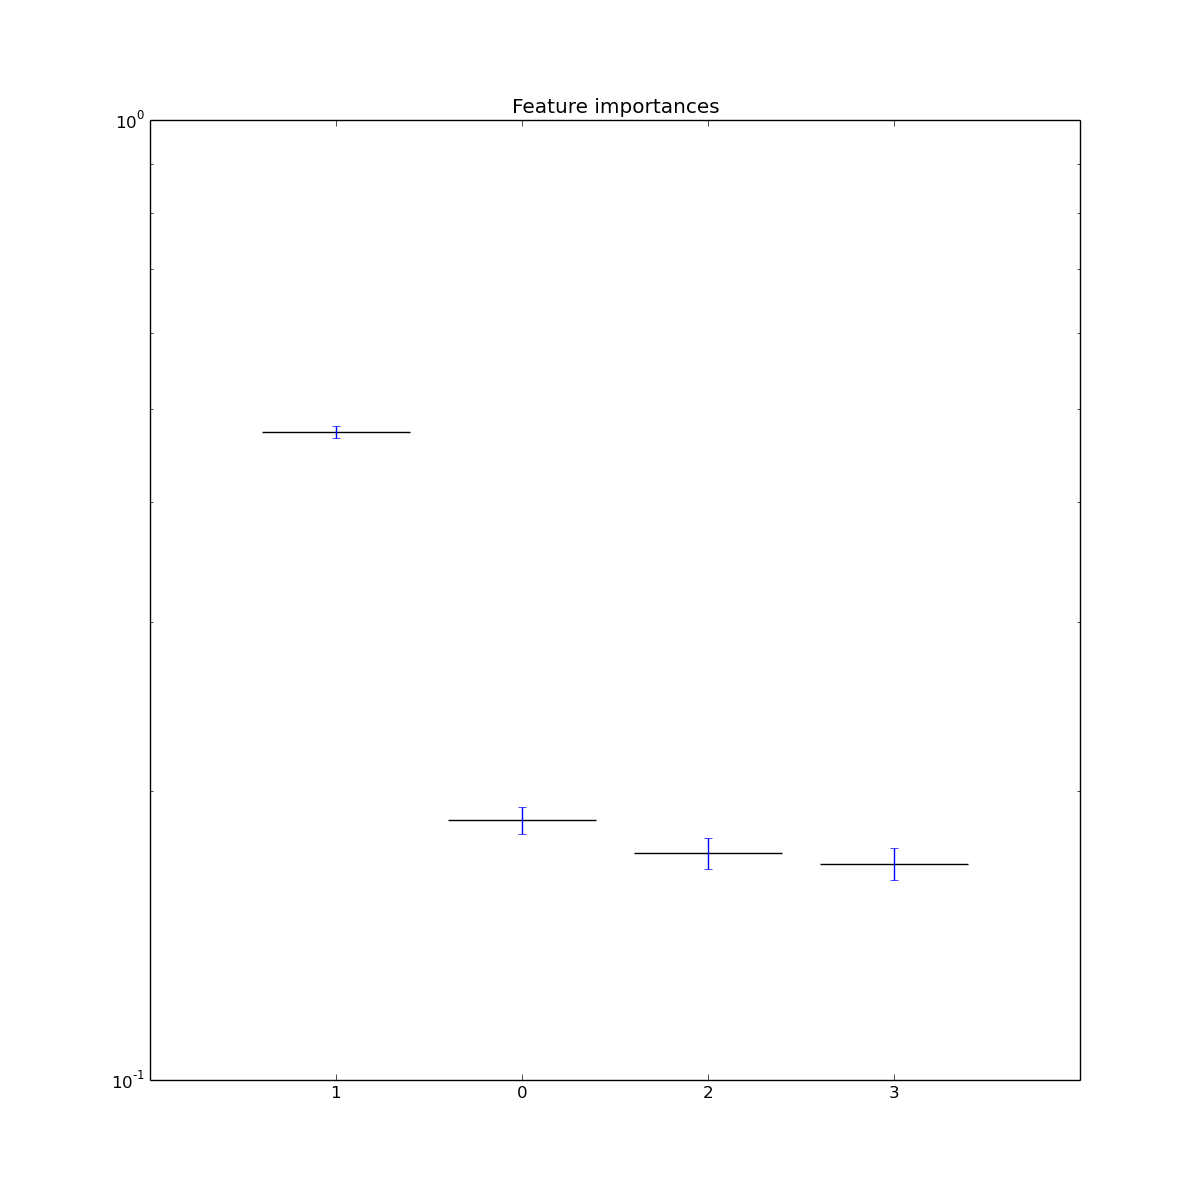
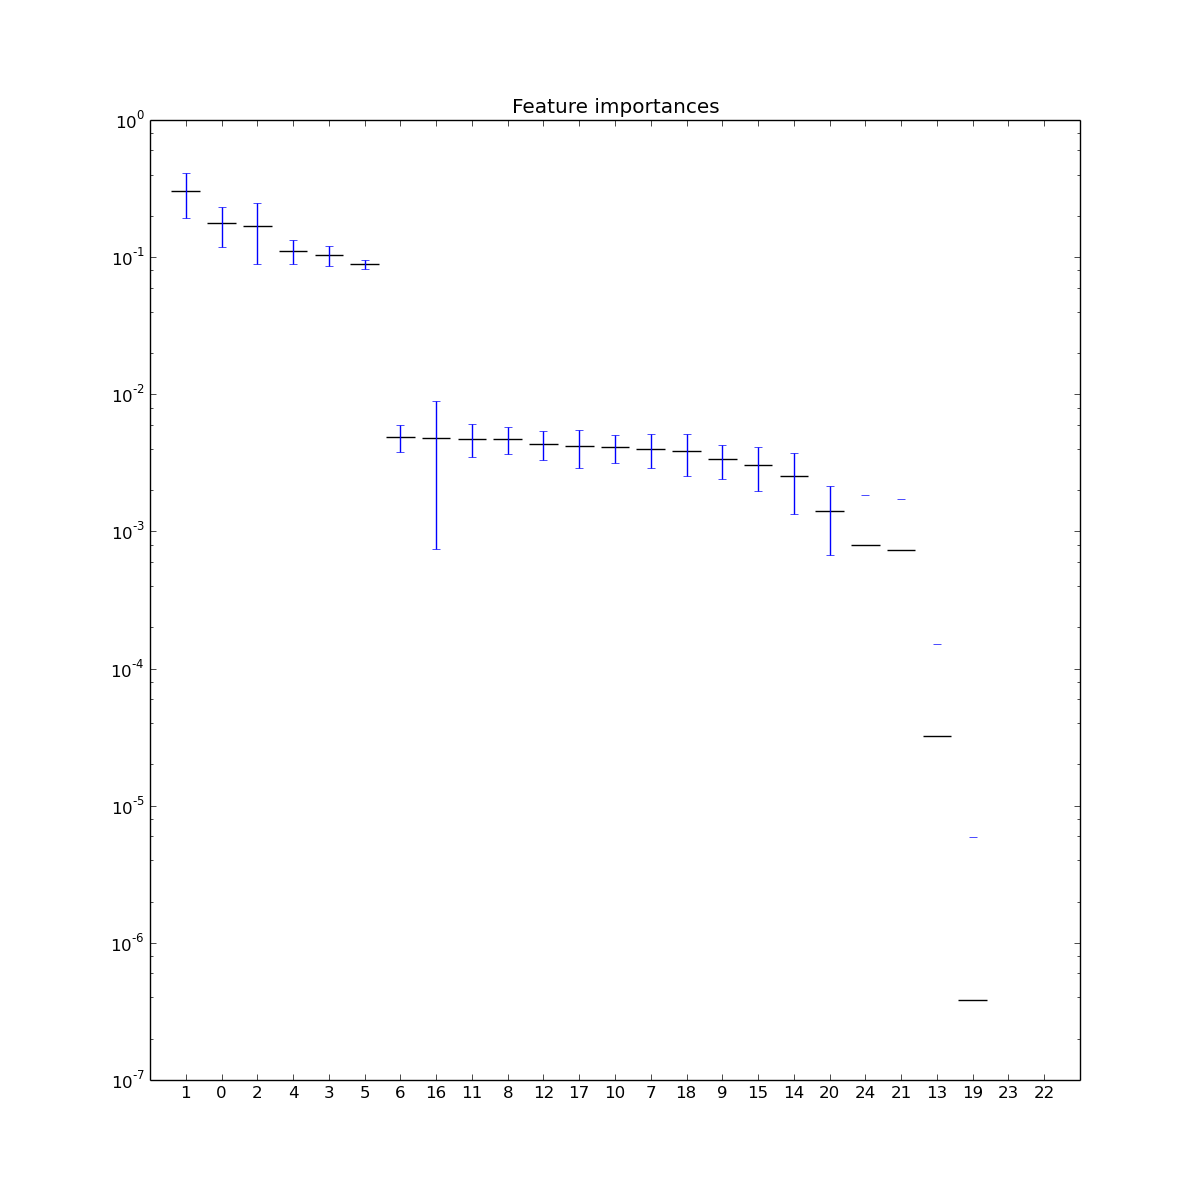
upload

diff --git a/ensemble.md b/ensemble.md
@@ -4,19 +4,61 @@
 
 | Dataset | AUC | Accuracy | Precision@5k|
 | :--- | :--- | :--- | :--- | :--- |
-| Training | 0.76732 | 0.75199 | 0.81020 |
-| Test | 0.63303 | 0.74199 | 0.67960 |
+| Training | 0.73424 | 0.74886 | 0.78800 |
+| Test | 0.64552 | 0.74239 | 0.69620 |
 
 
 #Feature ranking:
 
 ![](importances.png?raw=true)
 
-1. Chmel_Tolstiy-1001180|A-1639114-No-compiler-OK.csv (0.473165)
+1. Chmel_Tolstiy-1001180|A-1639114-No-compiler-OK.csv (0.301619)
 
-2. justHeuristic-989496|A-1639435-No-compiler-OK.csv (0.186474)
+2. justHeuristic-989496|A-1639435-No-compiler-OK.csv (0.176040)
 
-3. Yandex.Taxi | lon (0.172329)
+3. Yandex.Taxi | dist (0.167684)
 
-4. Yandex.Taxi | lat (0.168032)
+4. Yandex.Taxi | lat (0.111530)
+
+5. Yandex.Taxi | lon (0.102907)
+
+6. Yandex.Taxi | time_of_day_rel (0.088708)
+
+7. Yandex.Taxi | day_of_week=fri (0.004865)
+
+8. Yandex.Taxi | day_of_week=mon (0.004816)
+
+9. Yandex.Taxi | day_of_week=sat (0.004745)
+
+10. Yandex.Taxi | day_of_week=sun (0.004718)
+
+11. Yandex.Taxi | day_of_week=thu (0.004367)
+
+12. Yandex.Taxi | day_of_week=tue (0.004177)
+
+13. Yandex.Taxi | day_of_week=wed (0.004112)
+
+14. Yandex.Taxi | f_class (0.004005)
+
+15. Yandex.Taxi | f_class=business (0.003828)
+
+16. Yandex.Taxi | f_class=econom (0.003354)
+
+17. Yandex.Taxi | f_class=vip (0.003041)
+
+18. Yandex.Taxi | s_class (0.002522)
+
+19. Yandex.Taxi | s_class=business (0.001401)
+
+20. Yandex.Taxi | s_class=econom (0.000797)
+
+21. Yandex.Taxi | s_class=vip (0.000731)
+
+22. Yandex.Taxi | t_class (0.000032)
+
+23. Yandex.Taxi | t_class=business (0.000000)
+
+24. Yandex.Taxi | t_class=econom (0.000000)
+
+25. Yandex.Taxi | t_class=vip (0.000000)
 

diff --git a/table.md b/table.md
@@ -1,6 +1,27 @@
 | Author | Submission | Contribution Score |
 | :---:  | :---: | ---: |
-| justHeuristic-989496|A-1639435-No-compiler-OK.csv | 473 164 773 |
-| Chmel_Tolstiy-1001180|A-1639114-No-compiler-OK.csv | 186 473 932 |
-| Yandex.Taxi | lon | 172 328 933 |
-| Yandex.Taxi | lat | 168 032 360 |
+| justHeuristic-989496|A-1639435-No-compiler-OK.csv | 301 618 647 |
+| Chmel_Tolstiy-1001180|A-1639114-No-compiler-OK.csv | 176 040 010 |
+| Yandex.Taxi | dist | 167 683 813 |
+| Yandex.Taxi | lon | 111 530 411 |
+| Yandex.Taxi | lat | 102 907 311 |
+| Yandex.Taxi | time_of_day_rel | 88 707 730 |
+| Yandex.Taxi | day_of_week=fri | 4 865 044 |
+| Yandex.Taxi | f_class=vip | 4 816 231 |
+| Yandex.Taxi | day_of_week=tue | 4 744 742 |
+| Yandex.Taxi | day_of_week=sat | 4 717 920 |
+| Yandex.Taxi | day_of_week=wed | 4 367 265 |
+| Yandex.Taxi | s_class | 4 176 731 |
+| Yandex.Taxi | day_of_week=thu | 4 111 514 |
+| Yandex.Taxi | day_of_week=mon | 4 005 162 |
+| Yandex.Taxi | s_class=business | 3 828 330 |
+| Yandex.Taxi | day_of_week=sun | 3 353 894 |
+| Yandex.Taxi | f_class=econom | 3 041 311 |
+| Yandex.Taxi | f_class=business | 2 522 365 |
+| Yandex.Taxi | s_class=vip | 1 400 573 |
+| Yandex.Taxi | t_class=vip | 797 173 |
+| Yandex.Taxi | t_class | 731 140 |
+| Yandex.Taxi | f_class | 32 289 |
+| Yandex.Taxi | s_class=econom | 383 |
+| Yandex.Taxi | t_class=business | 0 |
+| Yandex.Taxi | t_class=econom | 0 |
